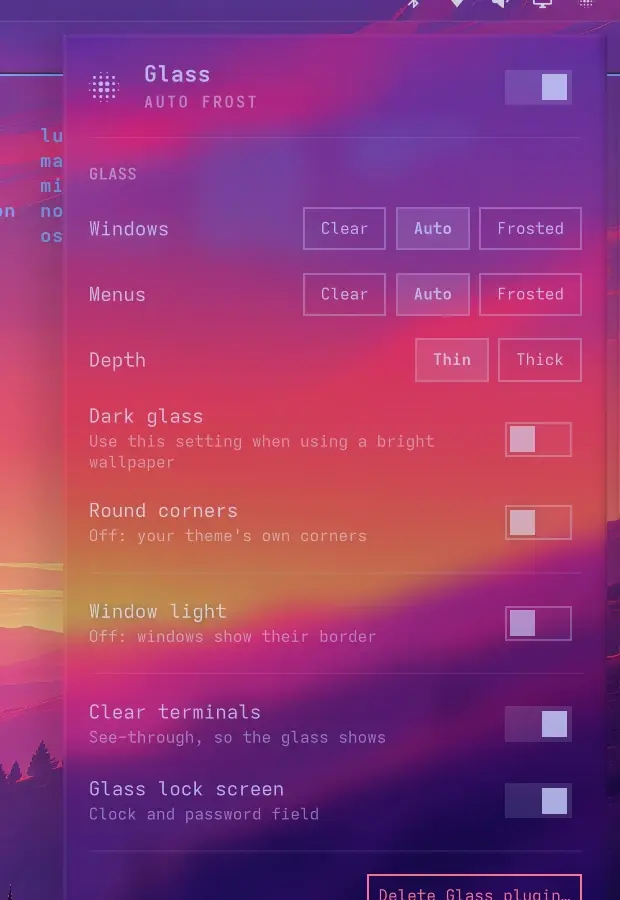
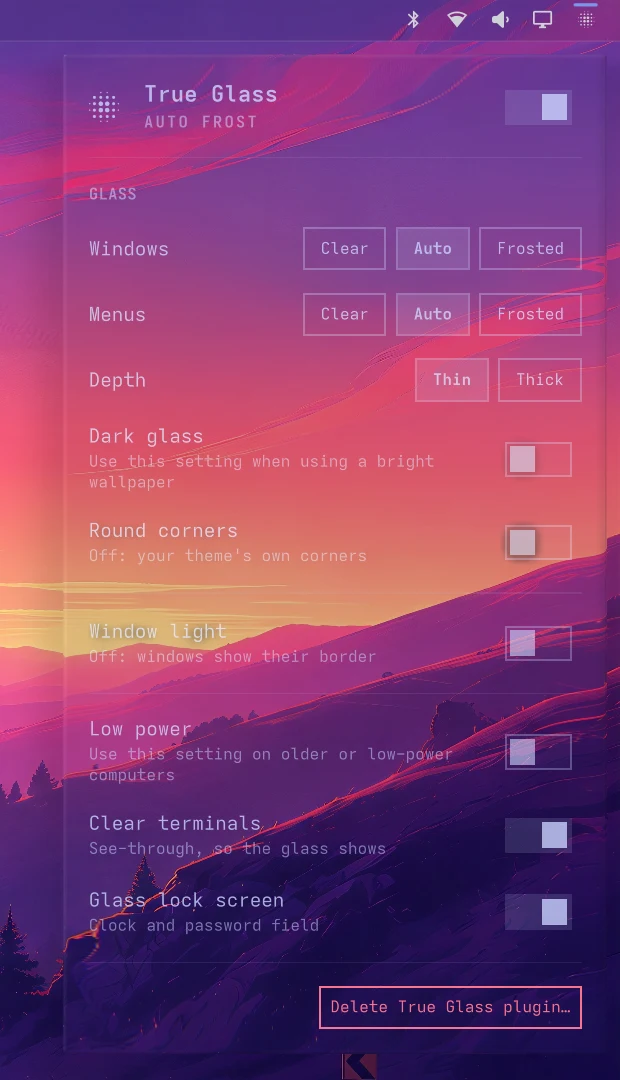
Renamed True Glass

diff --git a/Model.js b/Model.js
@@ -114,14 +114,14 @@ function copy(s) {
 function statusText(status) {
   var s = String(status || "off").trim()
   if (s === "building") return "Building the glass engine for your Hyprland, once. About a minute, a few on an older computer; it runs at low priority, so you can keep working."
-  if (s.indexOf("unsupported") === 0) return "Glass needs Hyprland 0.56. This system has " + s.split(" ")[1] + ", so the glass stays off until Glass is updated for it."
-  if (s.indexOf("tools") === 0) return "Building the engine needs: " + s.slice(6) + ". Install base-devel (sudo pacman -S --needed base-devel), then turn Glass on again."
+  if (s.indexOf("unsupported") === 0) return "True Glass needs Hyprland 0.56. This system has " + s.split(" ")[1] + ", so the glass stays off until True Glass is updated for it."
+  if (s.indexOf("tools") === 0) return "Building the engine needs: " + s.slice(6) + ". Install base-devel (sudo pacman -S --needed base-devel), then turn True Glass on again."
   if (s.indexOf("failed") === 0) return "The glass engine didn't build or load. Details: " + (s.slice(7) || "~/.local/share/omarchy-glass/build.log")
-  if (s === "relogin") return "Hyprland was updated. Log out and back in, and Glass builds its engine for the new version."
-  if (s.indexOf("crashed") === 0) return "Hyprland crashed while Glass was on, so Glass stayed off this time. Turn it on to try again, or turn on Low power first. Crash report: " + s.slice(8)
-  if (s === "gpu old") return "This computer's graphics are older than Glass supports (Intel from before 2015, or an open-source NVIDIA or older AMD driver), so it stays off: on graphics like these the glass can hang the GPU, and Hyprland closes when it does. You can try anyway, in Low power."
-  if (s === "gpu software") return "This computer draws the desktop without a graphics driver (software rendering), which is too slow for Glass, so it stays off."
-  if (s.indexOf("gpu shaders") === 0) return "Glass's shaders don't build on this graphics chip (" + s.slice(12) + "), so it turned itself off. Nothing else was changed."
-  if (s === "restart") return "An older Glass engine is still loaded. Log out and back in, then turn Glass on."
+  if (s === "relogin") return "Hyprland was updated. Log out and back in, and True Glass builds its engine for the new version."
+  if (s.indexOf("crashed") === 0) return "Hyprland crashed while True Glass was on, so True Glass stayed off this time. Turn it on to try again, or turn on Low power first. Crash report: " + s.slice(8)
+  if (s === "gpu old") return "This computer's graphics are older than True Glass supports (Intel from before 2015, or an open-source NVIDIA or older AMD driver), so it stays off: on graphics like these the glass can hang the GPU, and Hyprland closes when it does. You can try anyway, in Low power."
+  if (s === "gpu software") return "This computer draws the desktop without a graphics driver (software rendering), which is too slow for True Glass, so it stays off."
+  if (s.indexOf("gpu shaders") === 0) return "True Glass's shaders don't build on this graphics chip (" + s.slice(12) + "), so it turned itself off. Nothing else was changed."
+  if (s === "restart") return "An older True Glass engine is still loaded. Log out and back in, then turn True Glass on."
   return ""
 }

diff --git a/Panel.qml b/Panel.qml
@@ -11,8 +11,8 @@ import "Model.js" as Model
 // Service.qml applies it (bin/glass) and reports back in status there.
 Panel {
   id: root
-  moduleName: "io.github.eddie175.glass"
-  ipcTarget: "io.github.eddie175.glass"
+  moduleName: "io.github.eddie175.true-glass"
+  ipcTarget: "io.github.eddie175.true-glass"
 
   readonly property string dir: String(Qt.resolvedUrl(".")).replace(/^file:\/\//, "").replace(/\/$/, "")
   readonly property string stateDir: (Quickshell.env("XDG_STATE_HOME") || Quickshell.env("HOME") + "/.local/state") + "/omarchy-glass"
@@ -98,7 +98,7 @@ Panel {
     }
     anchors.fill: parent
     bar: root.bar
-    tooltipText: "Glass"
+    tooltipText: "True Glass"
     text: String.fromCodePoint(0xF00B5)
     onPressed: function(b) { root.toggle() }
   }
@@ -229,7 +229,7 @@ Panel {
             spacing: Style.space(2)
 
             Text {
-              text: "Glass"
+              text: "True Glass"
               color: root.bar.foreground
               font.family: root.bar.fontFamily
               font.pixelSize: Style.font.title
@@ -435,7 +435,7 @@ Panel {
             visible: root.confirmRemove
             textFormat: Text.PlainText
             wrapMode: Text.WordWrap
-            text: "Turns Glass off, puts back everything it changed and deletes the plugin."
+            text: "Turns True Glass off, puts back everything it changed and deletes the plugin."
             color: Qt.darker(root.bar.foreground, 1.4)
             font.family: root.bar.fontFamily
             font.pixelSize: Style.font.caption
@@ -446,7 +446,7 @@ Panel {
             anchors.right: parent.right
             anchors.verticalCenter: parent.verticalCenter
             // (red, outlined: it deletes the plugin, not just the glass)
-            text: root.confirmRemove ? "Delete" : "Delete Glass plugin…"
+            text: root.confirmRemove ? "Delete" : "Delete True Glass plugin…"
             fontSize: Style.font.caption
             foreground: Color.urgent
             fontFamily: root.bar.fontFamily
@@ -456,7 +456,7 @@ Panel {
             onClicked: {
               if (!root.confirmRemove) { root.confirmRemove = true; return }
               root.close()
-              Quickshell.execDetached(["bash", "-c", "bash \"$1/bin/glass\" stop; omarchy plugin remove io.github.eddie175.glass --yes", "glass", root.dir])
+              Quickshell.execDetached(["bash", "-c", "bash \"$1/bin/glass\" stop; omarchy plugin remove io.github.eddie175.true-glass --yes", "glass", root.dir])
             }
           }
           // (its outline in the theme's red: the button's own border takes the theme's

diff --git a/README.md b/README.md
@@ -1,47 +1,47 @@
-# Glass for Omarchy
+# True Glass for Omarchy
 
 Real glass for your [Omarchy](https://omarchy.org) desktop. The bar, menus, notifications and windows become clear panes that bend what is behind them at their edges, split light into colour along the rim and catch a light from above. Menus flow out of the bar like liquid, and back into it. It works with any theme.
 
-Glass is built on [hyprglass](https://github.com/hyprnux/hyprglass) by Jeremy Trufier, the Hyprland plugin that renders the glass. Glass adds the Omarchy side on top: glass shaped to each menu, the liquid motion, auto frost, the tints, the safety checks and a one-switch setup. Thank you, Jeremy, for making it open source.
+True Glass is built on [hyprglass](https://github.com/hyprnux/hyprglass) by Jeremy Trufier, the Hyprland plugin that renders the glass. True Glass adds the Omarchy side on top: glass shaped to each menu, the liquid motion, auto frost, the tints, the safety checks and a one-switch setup. Thank you, Jeremy, for making it open source.
 
-![Glass: two terminals and the calendar over the aurora](docs/media/hero.webp)
+![True Glass: two terminals and the calendar over the aurora](docs/media/hero.webp)
 
-**Demo videos:** [menus flowing out of the bar](https://github.com/Eddie175/omarchy-glass/releases/download/v1.0.0/hero.mp4) ·
-[in slow motion](https://github.com/Eddie175/omarchy-glass/releases/download/v1.0.0/liquid-slow.mp4) ·
-[menus switching, in slow motion](https://github.com/Eddie175/omarchy-glass/releases/download/v1.0.0/switch-slow.mp4) ·
-[the edges up close](https://github.com/Eddie175/omarchy-glass/releases/download/v1.0.0/edges-closeup.mp4) ·
-[auto frost](https://github.com/Eddie175/omarchy-glass/releases/download/v1.0.0/frost.mp4) ·
-[on Omarchy's own themes](https://github.com/Eddie175/omarchy-glass/releases/download/v1.0.0/themes.mp4) ·
-[the Glass menu](https://github.com/Eddie175/omarchy-glass/releases/download/v1.0.0/glass-menu.mp4) ·
-[Dark glass](https://github.com/Eddie175/omarchy-glass/releases/download/v1.0.0/dark-glass.mp4) ·
-[Light glass](https://github.com/Eddie175/omarchy-glass/releases/download/v1.0.0/light-glass.mp4) ·
-[notifications](https://github.com/Eddie175/omarchy-glass/releases/download/v1.0.0/notifications.mp4) ·
-[window light](https://github.com/Eddie175/omarchy-glass/releases/download/v1.0.0/window-light.mp4) ·
-[lock screen](https://github.com/Eddie175/omarchy-glass/releases/download/v1.0.0/lock.mp4)
+**Demo videos:** [menus flowing out of the bar](https://github.com/Eddie175/omarchy-true-glass/releases/download/v1.0.0/hero.mp4) ·
+[in slow motion](https://github.com/Eddie175/omarchy-true-glass/releases/download/v1.0.0/liquid-slow.mp4) ·
+[menus switching, in slow motion](https://github.com/Eddie175/omarchy-true-glass/releases/download/v1.0.0/switch-slow.mp4) ·
+[the edges up close](https://github.com/Eddie175/omarchy-true-glass/releases/download/v1.0.0/edges-closeup.mp4) ·
+[auto frost](https://github.com/Eddie175/omarchy-true-glass/releases/download/v1.0.0/frost.mp4) ·
+[on Omarchy's own themes](https://github.com/Eddie175/omarchy-true-glass/releases/download/v1.0.0/themes.mp4) ·
+[the True Glass menu](https://github.com/Eddie175/omarchy-true-glass/releases/download/v1.0.0/glass-menu.mp4) ·
+[Dark glass](https://github.com/Eddie175/omarchy-true-glass/releases/download/v1.0.0/dark-glass.mp4) ·
+[Light glass](https://github.com/Eddie175/omarchy-true-glass/releases/download/v1.0.0/light-glass.mp4) ·
+[notifications](https://github.com/Eddie175/omarchy-true-glass/releases/download/v1.0.0/notifications.mp4) ·
+[window light](https://github.com/Eddie175/omarchy-true-glass/releases/download/v1.0.0/window-light.mp4) ·
+[lock screen](https://github.com/Eddie175/omarchy-true-glass/releases/download/v1.0.0/lock.mp4)
 
 ## Install
 
 From Omarchy's plugin marketplace, or:
 
 ```bash
-omarchy plugin add https://github.com/Eddie175/omarchy-glass --enable
+omarchy plugin add https://github.com/Eddie175/omarchy-true-glass --enable
 ```
 
-Then open the **Glass** icon in the bar and press **Turn on Glass**. The first time, Glass builds its engine for your Hyprland: about a minute, a few on an older computer. It builds at low priority, so you can keep working.
+Then open the **True Glass** icon in the bar and flip the switch at the top of its menu. The first time, True Glass builds its engine for your Hyprland: about a minute, a few on an older computer. It builds at low priority, so you can keep working.
 
 **Needs:** Omarchy with Hyprland 0.56, and the build tools from `base-devel` (most Omarchy installs have them; the menu says so if they're missing).
 
-**Best on dark themes.** Glass works with every Omarchy theme, square or round, dark or light, but its refraction shines most on dark ones. On a light theme, turn on **Light glass** in the Glass menu, and set terminal apps to their light colours (in Claude Code, `/theme`).
+**Best on dark themes.** True Glass works with every Omarchy theme, square or round, dark or light, but its refraction shines most on dark ones. On a light theme, turn on **Light glass** in the True Glass menu, and set terminal apps to their light colours (in Claude Code, `/theme`).
 
 ## Remove
 
-Turn it off from the menu (**Turn off Glass**), or remove it completely with **Delete Glass plugin…** in the menu, or:
+Turn it off with the same switch, or remove it completely with **Delete True Glass plugin…** in the menu, or:
 
 ```bash
-omarchy plugin remove io.github.eddie175.glass
+omarchy plugin remove io.github.eddie175.true-glass
 ```
 
-Either way Glass first puts back everything it changed: it unloads its engine, makes your bar opaque again if it made it transparent, gives your theme its outlines back, takes its one line back out of your terminal configs and selects your previous lock screen design again. Nothing else on your system is touched, and nothing is left behind.
+Either way True Glass first puts back everything it changed: it unloads its engine, makes your bar opaque again if it made it transparent, gives your theme its outlines back, takes its one line back out of your terminal configs and selects your previous lock screen design again. Nothing else on your system is touched, and nothing is left behind.
 
 ## What you get
 
@@ -59,7 +59,7 @@ Every pane is a lens. Each pixel follows the eye ray through a curved rim with S
 
 ![The same glass over the wallpaper and over a window](docs/media/auto-frost.webp)
 
-Glass doesn't frost or tint by default. Over your wallpaper the middle of a pane is perfectly clear: the picture shows through untouched, and only the rim bends it. **Auto** frosts a pane only where a window is behind it, so text behind never fights text in front, and clears it again when the window moves away. Window glass and menu glass each have **Clear**, **Auto** and **Frosted**.
+True Glass doesn't frost or tint by default. Over your wallpaper the middle of a pane is perfectly clear: the picture shows through untouched, and only the rim bends it. **Auto** frosts a pane only where a window is behind it, so text behind never fights text in front, and clears it again when the window moves away. Window glass and menu glass each have **Clear**, **Auto** and **Frosted**.
 
 ### Menus flow out of the bar
 
@@ -67,7 +67,7 @@ Glass doesn't frost or tint by default. Over your wallpaper the middle of a pane
 
 Click a bar item and its menu grows out of the bar like a drop of liquid, joined to it by a neck that thins and lets go. Closing pours it back in. Switch straight from one menu to another and the glass flows from one shape into the next.
 
-With Hyprland's animations turned off, Glass follows: menus fade in and out where they are, and the window light holds still.
+With Hyprland's animations turned off, True Glass follows: menus fade in and out where they are, and the window light holds still.
 
 ### Everything in the shell is glass
 
@@ -94,11 +94,11 @@ The window you're in is marked by a light on its glass instead of a painted bord
 
 ### More in the menu
 
-<img src="docs/media/glass-menu.webp" alt="The Glass menu" width="360" align="right">
+<img src="docs/media/glass-menu.webp" alt="The True Glass menu" width="360" align="right">
 
 - **Depth:** Thin or Thick glass. Thick bends more at the rim and casts a deeper shadow.
 - **Low power:** for older or low-power computers (see below).
-- **Round corners:** Glass matches your theme's corners (Omarchy's own themes are square, and their glass corners are cut like a glass block). Turn this on to round windows, menus and buttons instead.
+- **Round corners:** True Glass matches your theme's corners (Omarchy's own themes are square, and their glass corners are cut like a glass block). Turn this on to round windows, menus and buttons instead.
 - **Clear terminals:** makes Ghostty, Kitty, Alacritty and Foot see-through so the glass shows behind your text. It adds one marked line to each terminal's config while it's on.
 - **Glass lock screen:** with the [Lock Designs](https://github.com/smoothpixels/omarchy-lock-designs) plugin, the clock and password field on your lock screen are glass too.
 
@@ -106,9 +106,9 @@ Changes apply instantly.
 
 <br clear="right">
 
-## What Glass changes
+## What True Glass changes
 
-While Glass is on:
+While True Glass is on:
 
 | What | Where | When you turn it off |
 |---|---|---|
@@ -118,40 +118,40 @@ While Glass is on:
 | No outlines round menus, tooltips and notifications, and no full-screen dim behind the menu, launcher and password prompts | a marked block in `~/.config/omarchy/shell.toml` | removed |
 | Round corners (only if you turn it on) | Hyprland's corner rounding, at runtime | your theme's corners back |
 | One line per terminal config (Clear terminals only) | `~/.config/ghostty/config`, `kitty/kitty.conf`, `foot/foot.ini`, `alacritty/alacritty.toml` | removed |
-| The Glass lock design (Glass lock screen only) | `~/.config/omarchy/lock-designs/` | removed, your previous design selected again |
+| The True Glass lock design (Glass lock screen only) | `~/.config/omarchy/lock-designs/` | removed, your previous design selected again |
 
-Glass never edits your Hyprland config or Omarchy's files. Its window and layer rules are applied at runtime and disappear when Hyprland reloads its config without Glass.
+True Glass never edits your Hyprland config or Omarchy's files. Its window and layer rules are applied at runtime and disappear when Hyprland reloads its config without True Glass.
 
 ## Fast and light
 
-- **Still screen:** nothing is redrawn. Glass caches every pane and only works while something moves behind or in it. The one exception is a moving window light, which redraws the window's edge as it goes round; Outline holds still.
+- **Still screen:** nothing is redrawn. True Glass caches every pane and only works while something moves behind or in it. The one exception is a moving window light, which redraws the window's edge as it goes round; Outline holds still.
 - **While things move:** about 0.4 ms of GPU a frame with a menu pouring out of the bar, about 0.17 ms dragging a glass window (measured at 2560×1440 on an RTX 5070).
 - **CPU:** a fraction of a millisecond a frame, only while things move. **Memory:** about 7 MB. **Disk:** about 3 MB.
-- **Low power**, for older computers: clear, thin glass without the window light, the picture behind sampled at half resolution, no colour split or rim reflection. It cuts the GPU work by 15–40 %. Glass turns it on by itself on Intel graphics from 2015 to 2020; you can switch it either way in the menu.
+- **Low power**, for older computers: clear, thin glass without the window light, the picture behind sampled at half resolution, no colour split or rim reflection. It cuts the GPU work by 15–40 %. True Glass turns it on by itself on Intel graphics from 2015 to 2020; you can switch it either way in the menu.
 
 ## Safe on any machine
 
-Glass checks your graphics before it turns on. With no GPU driver (software rendering) it stays off. On older graphics (Intel from before 2015, the open-source nouveau driver, older AMD cards and virtual machines) it stays off by default, because a GPU hang there takes Hyprland down; the menu offers to try anyway, in Low power. If its shaders don't build on your GPU, it unloads itself and says so in the menu, with nothing else changed. And if Hyprland ever crashes while Glass is loaded, Glass stays off at the next login and tells you, so a problem can never repeat at every login.
+True Glass checks your graphics before it turns on. With no GPU driver (software rendering) it stays off. On older graphics (Intel from before 2015, the open-source nouveau driver, older AMD cards and virtual machines) it stays off by default, because a GPU hang there takes Hyprland down; the menu offers to try anyway, in Low power. If its shaders don't build on your GPU, it unloads itself and says so in the menu, with nothing else changed. And if Hyprland ever crashes while True Glass is loaded, True Glass stays off at the next login and tells you, so a problem can never repeat at every login.
 
 ## Updating Hyprland
 
-The engine is built for the Hyprland you run. After a Hyprland update, Glass keeps working with the engine already loaded; the next time you log in, it builds a new one for the new version (about 40 seconds, shown in the menu). If a new Hyprland isn't supported yet, the menu says so and the glass stays off until Glass is updated.
+The engine is built for the Hyprland you run. After a Hyprland update, True Glass keeps working with the engine already loaded; the next time you log in, it builds a new one for the new version (about 40 seconds, shown in the menu). If a new Hyprland isn't supported yet, the menu says so and the glass stays off until True Glass is updated.
 
 ## Credits and licenses
 
 **Engine.** Based on [hyprglass](https://github.com/hyprnux/hyprglass) by Jeremy Trufier, under the BSD 3-Clause License (`engine/LICENSE`). Its cubic-bezier solver is a port of WebKit's UnitBezier (BSD 2-Clause, Apple Inc.); its license text is in `THIRD_PARTY_NOTICES.md`. Everything else in this repository is under the MIT License (`LICENSE`).
 
-**Screenshots.** Most screenshots and videos use the wallpapers that come with Omarchy's own themes. The others are public domain or CC BY 4.0: [Cosmic Cliffs](https://esawebb.org/images/weic2205a/) (NASA, ESA, CSA, and STScI), The aurora borealis blankets the Earth (NASA), [*Twilight in the Wilderness*](https://www.clevelandart.org/art/1965.233) by Frederic Edwin Church (The Cleveland Museum of Art, CC0), [The Lagoon Nebula](https://esahubble.org/images/heic1808a/) (NASA, ESA, STScI) and *The Great Wave off Kanagawa* by Katsushika Hokusai (public domain). None of them is included in Glass.
+**Screenshots.** Most screenshots and videos use the wallpapers that come with Omarchy's own themes. The others are public domain or CC BY 4.0: [Cosmic Cliffs](https://esawebb.org/images/weic2205a/) (NASA, ESA, CSA, and STScI), The aurora borealis blankets the Earth (NASA), [*Twilight in the Wilderness*](https://www.clevelandart.org/art/1965.233) by Frederic Edwin Church (The Cleveland Museum of Art, CC0), [The Lagoon Nebula](https://esahubble.org/images/heic1808a/) (NASA, ESA, STScI) and *The Great Wave off Kanagawa* by Katsushika Hokusai (public domain). None of them is included in True Glass.
 
 **Fonts.** The lock screen uses Adwaita Sans (SIL Open Font License), which ships with Omarchy; no font files are included.
 
 ## Trademarks and independence
 
-Glass is an independent project. It is not affiliated with, endorsed by, sponsored by or connected to Apple Inc. "Apple", "Liquid Glass", "iOS" and "macOS" are trademarks of Apple Inc.; they are not used in this project's name, assets or user interface (source comments mention Apple only to credit the WebKit code above or to describe standard timing curves).
+True Glass is an independent project. It is not affiliated with, endorsed by, sponsored by or connected to Apple Inc. "Apple", "Liquid Glass", "iOS" and "macOS" are trademarks of Apple Inc.; they are not used in this project's name, assets or user interface (source comments mention Apple only to credit the WebKit code above or to describe standard timing curves).
 
 No Apple software, artwork, icons, wallpapers, fonts, sounds, shaders or other assets are included in or were extracted for this project. The one piece of Apple-authored source is WebKit's open-source, BSD-licensed timing-curve solver, ported into the engine with its license. The glass is rendered from first principles: Snell's law refraction, Cauchy dispersion, Schlick's Fresnel approximation and signed distance fields, all public, textbook physics and mathematics. The motion uses damped spring equations, likewise standard physics.
 
-Omarchy and Hyprland are the work of their respective projects; Glass is a third-party plugin for them and is not an official part of either.
+Omarchy and Hyprland are the work of their respective projects; True Glass is a third-party plugin for them and is not an official part of either.
 
 ## License
 
